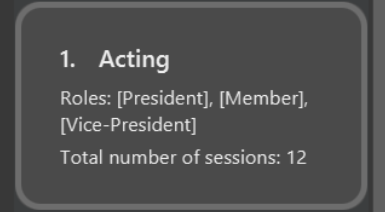
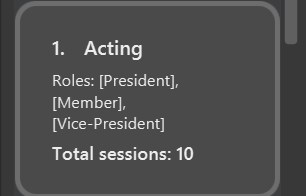
Update images

diff --git a/docs/DeveloperGuide.md b/docs/DeveloperGuide.md
@@ -74,7 +74,7 @@ The **API** of this component is specified in [`Ui.java`](https://github.com/AY2
 
 The UI consists of a `MainWindow` that is made up of parts e.g.`CommandBox`, `ResultDisplay`, `PersonListPanel`, `StatusBarFooter` etc. All these, including the `MainWindow`, inherit from the abstract `UiPart` class which captures the commonalities between classes that represent parts of the visible GUI.
 
-The `UI` component uses the JavaFx UI framework. The layout of these UI parts are defined in matching `.fxml` files that are in the `src/main/resources/view` folder. For example, the layout of the [`MainWindow`](https://github.com/AY2425S2-CS2103T-T09-4/tp/blob/master/src/main/java/seedu/address/ui/MainWindow.java) is specified in [`MainWindow.fxml`](https://github.com/AY2425S2-CS2103T-T09-4/tp/blob/master/src/main/resources/view/MainWindow.fxml)
+The `UI` component uses the JavaFx UI framework. The layout of these UI parts are defined in matching `.fxml` files that are in the `src/main/resources/view` folder. For example, the layout of the [`MainWindow`](https://github.com/AY2425S2-CS2103T-T09-4/tp/blob/master/src/main/java/seedu/address/ui/MainWindow.java) is specified in [`MainWindow.fxml`](https://github.com/AY2425S2-CS2103T-T09-4/tp/blob/master/src/main/resources/view/MainWindow.fxml).
 
 The `UI` component,
 
@@ -176,7 +176,7 @@ Classes used by multiple components are in the `seedu.address.commons` package.
 
 **Target user profile**:
 
-* Resolve the distress of the Hall attendance manager caused by the current complex and unorganized CCA attendance system.
+* Resolve the distress of the hall attendance manager caused by the current complex and unorganized CCA attendance system.
 * Provide a simple and easy-to-use software that effectively tracks all CCA attendances for hall students.
 * Accommodate the manager’s “lazy” nature by streamlining workflows and reducing complexity.
 * Prioritize typing over mouse usage to align with the manager’s preferences.
@@ -878,10 +878,10 @@ testers are expected to do more \*exploratory\* testing.
 **Difficulty Level**: The project was slightly challenging as it entailed the restructuring of a few classes to follow our implementation, and further considerations had to be made with the implementation of features with regard to the new structure.
 
 **Challenges Faced**:
-- **Expansion of AddressBook**: In line with our application's intent of keeping track of each student's CCA attendance, we introduced a new *UniqueCcaList*, which was used to keep track of *Cca*s that were present in the *AddressBook*. This entailed the linking of each *Person* to an existing *Cca* in the *UniqueCcaList*. This additional feature required implementing a sophisticated relationship model that could logically manage each *Person*, and their respective *Cca*s and *Attendance*.
-- **Restructuring of Person class**: To account for the *Cca*s of each student, we introduced a new set of *CcaInformation*s attribute to each *Person*, with each *CcaInformation* class keeping track of each student's *Cca*, *Role* and *Attendance*. The restructuring required a great deal of work as there were a multitude of dependencies linked to the *Person* class.
-- **Data Storage**: The introduction of the set of *CcaInformation*s in the *Person* class required an update to the JSON storage architecture. Multiple new JsonAdapted classes were created to account for the changes.
-- **User Interface Upgrade**: To make the user interface more friendly to the user for tracking *Cca*s and *Person*s, we split the interface into two, allowing the user to view the *Cca* list and *Person* list for a more intuitive experience.
+- **Expansion of AddressBook**: In line with our application's intent of keeping track of each student's CCA attendance, we introduced a new `UniqueCcaList`, which was used to keep track of `Cca`s that were present in the `AddressBook`. This entailed the linking of each `Person` to an existing `Cca` in the `UniqueCcaList`. This additional feature required implementing a sophisticated relationship model that could logically manage each `Person`, and their respective `Cca`s and `Attendance`.
+- **Restructuring of Person class**: To account for the `Cca`s of each student, we introduced a new set of `CcaInformation`s attribute to each `Person`, with each `CcaInformation` class keeping track of each student's `Cca`, `Role` and `Attendance`. The restructuring required a great deal of work as there were a multitude of dependencies linked to the `Person` class.
+- **Data Storage**: The introduction of the set of `CcaInformation`s in the `Person` class required an update to the JSON storage architecture. Multiple new JsonAdapted classes were created to account for the changes.
+- **User Interface Upgrade**: To make the user interface more friendly to the user for tracking `Cca`s and `Person`s, we split the interface into two, allowing the user to view the `Cca` list and `Person` list for a more intuitive experience.
 
 **Effort required**: With the restructuring of classes and the enhancement to the UI, we felt that we had put in adequate, if not more than the expected effort in ensuring that our application could cater well to the user, both functionally and visually. On top of that, we also prioritised code quality and testing to ensure that our application was robustly written and tested. Every member had put in their 110% effort for the sole fact of wanting to try our best for this project!
 
@@ -891,10 +891,10 @@ testers are expected to do more \*exploratory\* testing.
 **Team Size**: 4 People
 
 1. **Importing/Exporting of student profiles**: Currently, the application does not support the seamless exporting or importing of student profiles from/to the system. Future updates would allow users to export the student data for use in other systems, or import student data for use in the current system.
-2. **Find CCA**: The existing *find* command allows users to filter out students by the inputted names, but right now there is not a command that allows users to filter out students by the inputted CCAs. This future enhancement would then allow users to list students that have the corresponding CCAs, where the UI would then display the filtered CCA list on the left, and the students who are in the CCAs on the right. This would also entail enhancing the *list* command to not only display all persons, but also all CCAs especially after the find cca command is called where the CCA list is filtered. An alternative would be implementing another *list_c* command dedicated for CCAs, but these are design considerations to be gone through again in the future.
-3. **Clear CCAs**: The existing *clear* command clears both the cca and person list completely, but there might be use cases where a user would want to either just clear the cca list or person list. A new *clear_c*  and *clear_s* command could be implemented in the future to clear the cca list and person list respectively, allowing for more flexible usage of clearing data from the app.
-4. **Record attendance of multiple students at a time**: The current *attend* command only allows the user to record the attendance of one student for a specified CCA at a time. Seeing as the application revolves around recording the attendance of students, future enhancements would allow users to record the attendance of multiple users at a time for a specified cca, making the recording of attendance more efficient. e.g., The current *attend* command format allows for only one index (index of student) to be inputted, but future enhancements would allow multiple indexes to be inputted.
-5. **Adding multiple CCAs to a student at a time**: The current *add_c* command which adds a CCA to a student only allows for the addition of one cca at a time to a student. Seeing as to how it is plausible that students can hold multiple CCAs, the *add_c* command can be enhanced in the future to allow the addition of multiple of CCAs to a student at one go to make the command more efficient.
-6. **Removing multiple CCAs from a student at a time**: Same as the feature above, the current *remove_c* command only removes one cca from a student at a time. Future enhancements are to allow users to remove multiple CCAs from a user at once.
-7. **Combining add cca and add role to student into one command**: Currently, the only way to assign a CCA and a role that exists in the CCA to a student is by adding the cca to the student with the *add_c* command first, and then adding the role to the student using the *add_r* command. This might be inefficient especially if we were to add a cca and a role to many students at once. Future enhancements would entail combining these 2 commands into one, perhaps denoting the cca and the associated role to be added to a student by adjoining the cca and the role with an "underscore" e.g., Volleyball_Captain.
+2. **Find CCA**: The existing `find` command allows users to filter out students by the inputted names, but right now there is not a command that allows users to filter out students by the inputted CCAs. This future enhancement would then allow users to list students that have the corresponding CCAs, where the UI would then display the filtered CCA list on the left, and the students who are in the CCAs on the right. This would also entail enhancing the `list` command to not only display all persons, but also all CCAs especially after the find CCA command is called where the CCA list is filtered. An alternative would be implementing another `list_c` command dedicated for CCAs, but these are design considerations to be gone through again in the future.
+3. **Clear CCAs**: The existing `clear` command clears both the CCA and person list completely, but there might be use cases where a user would want to either just clear the CCA list or person list. A new `clear_c`  and `clear_s` command could be implemented in the future to clear the CCA list and person list respectively, allowing for more flexible usage of clearing data from the app.
+4. **Record attendance of multiple students at a time**: The current `attend` command only allows the user to record the attendance of one student for a specified CCA at a time. Seeing as the application revolves around recording the attendance of students, future enhancements would allow users to record the attendance of multiple users at a time for a specified CCA, making the recording of attendance more efficient. e.g., The current `attend` command format allows for only one index (index of student) to be inputted, but future enhancements would allow multiple indexes to be inputted.
+5. **Adding multiple CCAs to a student at a time**: The current `add_c` command which adds a CCA to a student only allows for the addition of one CCA at a time to a student. Seeing as to how it is plausible that students can hold multiple CCAs, the `add_c` command can be enhanced in the future to allow the addition of multiple of CCAs to a student at one go to make the command more efficient.
+6. **Removing multiple CCAs from a student at a time**: Same as the feature above, the current `remove_c` command only removes one CCA from a student at a time. Future enhancements are to allow users to remove multiple CCAs from a user at once.
+7. **Combining add CCA and add role to student into one command**: Currently, the only way to assign a CCA and a role that exists in the CCA to a student is by adding the CCA to the student with the `add_c` command first, and then adding the role to the student using the `add_r` command. This might be inefficient especially if we were to add a CCA and a role to many students at once. Future enhancements would entail combining these 2 commands into one, perhaps denoting the CCA and the associated role to be added to a student by adjoining the CCA and the role with an "underscore" e.g., `Volleyball_Captain`.
 8. **Improving error messages**: Some of the current error messages (e.g., indicating that an index must be a positive integer) are not specific enough to help the user understand what went wrong. Specifically, when the user enters an invalid index, the error message should clearly state that the index must be a positive integer and must not exceed `Integer.MAX_VALUE`. However, the current error message simply indicates an invalid command format, which is too generic and not very helpful. Later, we can enhance these error messages to be more detailed and user-friendly.

diff --git a/docs/UserGuide.md b/docs/UserGuide.md
@@ -18,13 +18,13 @@ Welcome to CCAttendance! We've created this friendly desktop app for **recording
 1. Ensure you have Java `17` or above installed in your Computer.<br>
    **Mac users:** Ensure you have the precise JDK version prescribed [here](https://se-education.org/guides/tutorials/javaInstallationMac.html).
 
-1. Download the latest `.jar` file from [here](https://github.com/AY2425S2-CS2103T-T09-4/tp/releases/tag/v1.3).
+1. Download the latest `.jar` file from [here](https://github.com/AY2425S2-CS2103T-T09-4/tp/releases/tag/v1.6).
 
 1. Copy the file to the folder you want to use as the _home folder_ for CCAttendance.
 
 1. Open a command terminal, `cd` into the folder you put the jar file in, and use the `java -jar CCAttendance.jar` command to run the application.<br>
    A GUI similar to the below should appear in a few seconds. Note how the app contains some sample data.<br>
-   <img src="images/Ui.png" alt="Ui" width="500" height="500"/>
+   <img src="images/Ui.png" alt="Ui" width="500" height="453"/>
 
 1. Type the command in the command box and press Enter to execute it. e.g. typing **`help`** and pressing Enter will open the help window.<br>
    Some example commands you can try:
@@ -53,7 +53,7 @@ Welcome to CCAttendance! We've created this friendly desktop app for **recording
 * The attendance is represented by the element labeled `B` which shows the CCA on the left and the number of sessions attended out of the total sessions in the brackets. E.g. the student above has attended 6 out of 20 sessions in `Boxing` CCA.
 
 ### CCA
-<img src="images/cca.png" alt="CCA" width="500" height="260"/>
+<img src="images/cca.png" alt="CCA" width="500" height="320"/>
 
 * Each CCA is represented by a CCA card. The card shows the name of the CCA, the roles available in the CCA, and the total sessions.
 
@@ -109,13 +109,13 @@ Format: `find KEYWORD [MORE_KEYWORDS]`
 * The order of the keywords does not matter. e.g. `Hans Bo` will match `Bo Hans`.
 * Only the name is searched.
 * Only full words will be matched e.g. `Han` will not match `Hans`.
-* Persons matching at least one keyword will be returned (i.e. `OR` search).
+* Students matching at least one keyword will be returned (i.e. `OR` search).
   e.g. `Hans Bo` will return `Hans Gruber`, `Bo Yang`.
 
 Examples:
 * `find John` returns `john` and `John Doe`
 * `find alex david` returns `Alex Yeoh`, `David Li`<br>
-<img src="images/findAlexDavidResult.png" alt="Find" width="500" height="400"/>
+<img src="images/findAlexDavidResult.png" alt="Find" width="500" height="342"/>
 
 ### Creating a student: `create_s`
 
@@ -138,7 +138,7 @@ Creates and adds a CCA to the list of CCAs.
 Format: `create_c c/CCA_NAME`
 * Creates and adds a CCA with a name.
 * The new CCA will have a default role `Member` and total sessions set to 0 by default.
-* Cca names must consist of alphanumeric characters, can only include spaces or hyphens between words and must be at most 100 characters long. For example, R0ck-n-R0ll is a valid CCA name, but -Basketball- is not. It is up to the user to make meaningful CCA names.
+* CCA names must consist of alphanumeric characters, can only include spaces or hyphens between words and must be at most 100 characters long. For example, `R0ck-n-R0ll` is a valid CCA name, but `-Basketball-` is not. It is up to the user to make meaningful CCA names.
 <box type="warning" seamless>
 
 **Caution:**
@@ -183,7 +183,7 @@ Role names are case-sensitive. For example, `Captain` and `captain` are consider
 * Typing `r/` without specifying any roles after it remove all the CCA’s roles except for `Member`.
 * If an existing student have their role removed from the CCA, the student's role will be set to `Member`.
 * If an existing student's attended sessions is above the new total sessions, the student's attended sessions will be set to the new total sessions.
-* Cca names must consist of alphanumeric characters, can only include spaces or hyphens between words and must be at most 100 characters long.
+* CCA names must consist of alphanumeric characters, can only include spaces or hyphens between words and must be at most 100 characters long.
 * Role names should be alphanumeric, allowing the use of hyphens, and must be at most 50 characters long (including spaces and hyphens)";
 
 Examples:
@@ -294,7 +294,7 @@ Format: `remove_c INDEX c/CCA_NAME`
 * The student must currently be assigned to the specified `CCA_NAME` for the removal to be successful.
 
 Examples:
-* `remove_c 1 c/Basketball` Removes the `Basketball` CCA assignment from the student at index 1 in the current student list.
+* `remove_c 1 c/Basketball` removes the `Basketball` CCA assignment from the student at index 1 in the current student list.
 
 ### Clearing all entries : `clear`
 

diff --git a/docs/index.md b/docs/index.md
@@ -6,7 +6,7 @@ title: "CCAttendance"
 [![CI Status](https://github.com/AY2425S2-CS2103T-T09-4/tp/workflows/Java%20CI/badge.svg)](https://github.com/AY2425S2-CS2103T-T09-4/tp/actions)
 [![codecov](https://codecov.io/gh/AY2425S2-CS2103T-T09-4/tp/graph/badge.svg?token=N4G86KG3AJ)](https://codecov.io/gh/AY2425S2-CS2103T-T09-4/tp)
 
-<img src="images/Ui.png" alt="Ui" width="500" height="500"/>
+<img src="images/Ui.png" alt="Ui" width="500" height="453"/>
 
 # CCAttendance
 CCAttendance is a desktop app for managing attendance of students in CCAs, optimized for use via a Command Line Interface (CLI) while still having the benefits of a Graphical User Interface (GUI). If you can type fast, CCAttendance can get your attendance management tasks done faster than traditional GUI apps.
